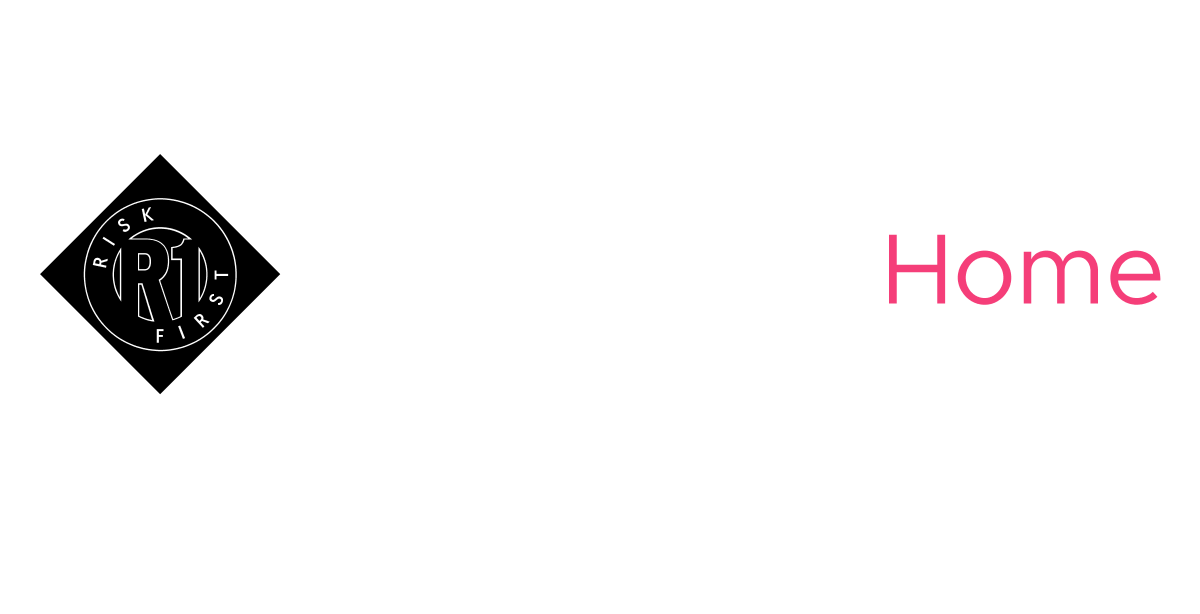
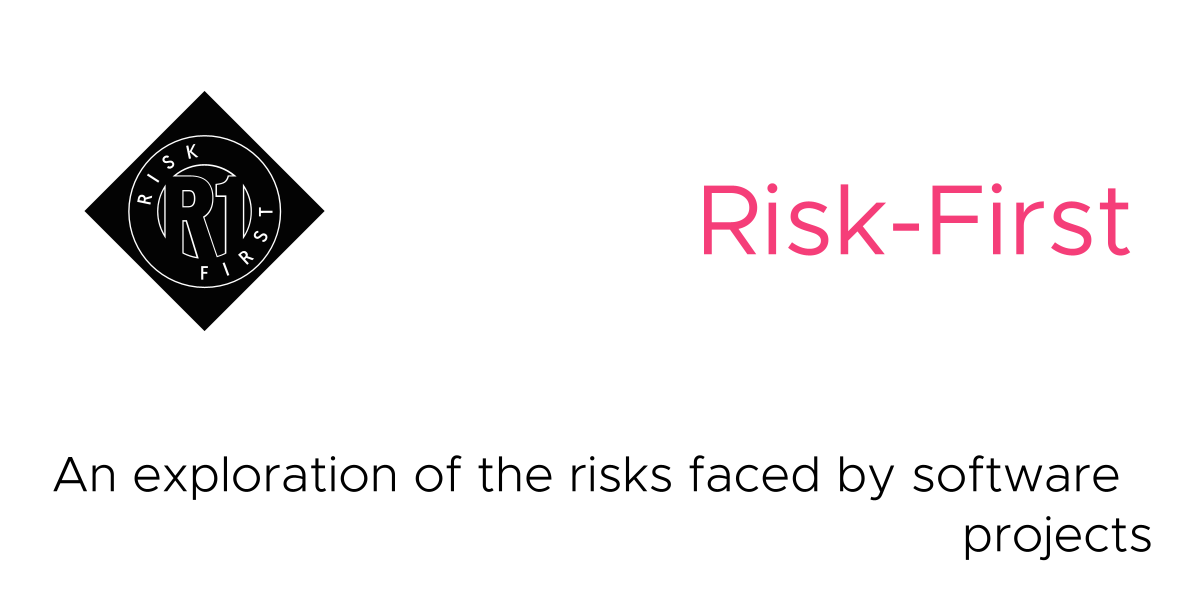
Improving index image

diff --git a/index.html b/index.html
@@ -1,6 +1,9 @@
 ---
+title: Health
+description: An exploration of the risks faced by software projects
+url: https://riskfirst.org
 layout: post
-title: Home
+title: Risk-First
 featured: 
   class: bg1
   element: '<action>Start Here</action>'
